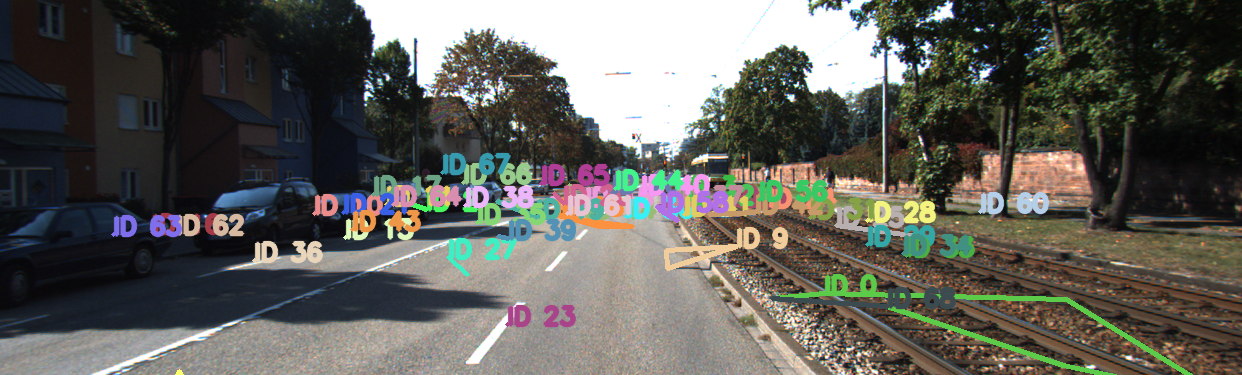
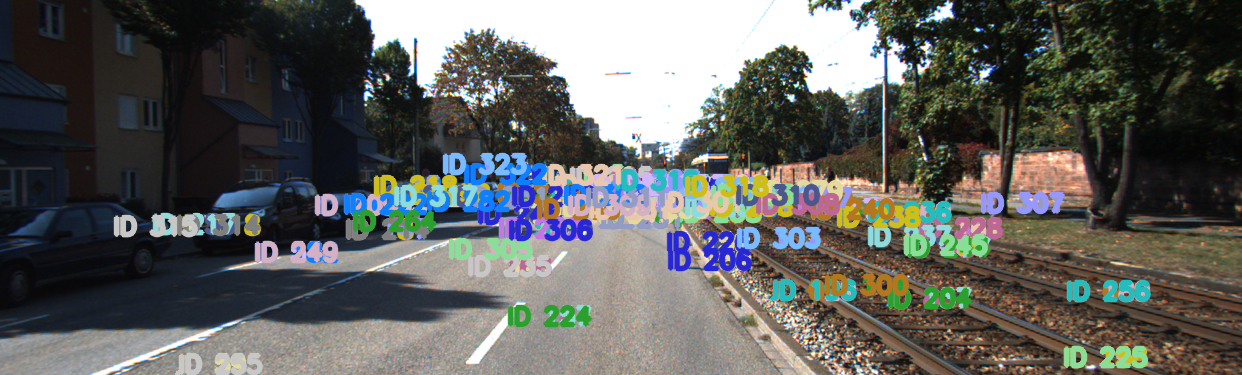
Replaced a regular tracker, with Kalman Tracker

diff --git a/animate_fusion.py b/animate_fusion.py
@@ -2,10 +2,11 @@ import os
 import cv2
 import numpy as np
 import matplotlib.pyplot as plt
+from matplotlib import colormaps
 from matplotlib.animation import FuncAnimation
 from matplotlib.widgets import Button
-from tracker import SimpleTracker
-import random
+from matplotlib.colors import to_rgb
+from kalman_tracker import MultiObjectTracker
 
 # ========== CONFIG ==========
 dataset_path = r'C:\Users\kouti\Python\(5) Multisensor Fusion & Real-Time 3D Object Tracking Perception Pipeline Useing KITTI Dataset\2011_09_26_drive_0001_sync'
@@ -132,7 +133,7 @@ class FusionAnimator:
     def __init__(self, num_frames=NUM_FRAMES):
         self.num_frames = num_frames
         self.Tr_velo_to_cam, self.R_rect, self.P2 = load_calibration()
-        self.tracker = SimpleTracker(max_distance=3.0)
+        self.tracker = MultiObjectTracker()
 
         self.image_files = sorted([f for f in os.listdir(image_folder) if f.endswith('.png')])[:num_frames]
         self.lidar_files = sorted([f for f in os.listdir(lidar_folder) if f.endswith('.bin')])[:num_frames]
@@ -161,6 +162,23 @@ class FusionAnimator:
             # Generate a random bright color (BGR) for OpenCV
             self.colors[obj_id] = tuple(np.random.choice(range(50,256), size=3).tolist())
         return self.colors[obj_id]
+    
+    def get_color(self, track_id):
+        """
+        Assign a consistent color to each track ID using a colormap.
+
+        Args:
+            track_id (int): Object ID
+
+        Returns:
+            tuple: RGB color in [0,255] format
+        """
+        if track_id not in self.colors:
+            cmap = colormaps['tab20']
+            color = cmap(track_id % 20)[:3]  # RGB in 0–1
+            self.colors[track_id] = tuple(int(255 * c) for c in color)
+        return self.colors[track_id]
+
 
     def toggle_pause(self, event):
         """Toggle pause/play state of animation."""
@@ -189,27 +207,28 @@ class FusionAnimator:
         tracked = self.tracker.update(centroids)
 
         # Draw 3D boxes and tracking info
-        for obj, track in zip(objects, tracked):
-            corners_3d = compute_3d_box(obj['dimensions'], obj['location'], obj['rotation_y'])
-            corners_2d = project_to_image(corners_3d, self.P2)
-            color = self._get_color(track['id'])
+        for track in tracked:
+            track_id = track.track_id
+            state = track.get_state()
+            if state is None:
+                continue
+            cx, cy, cz = state[:3]
+            color = self.get_color(track_id)
 
-            # Draw bounding box in RGB image (convert BGR->RGB for matplotlib display)
+            # Find associated object for bounding box rendering
+            closest_obj = min(objects, key=lambda o: np.linalg.norm(np.array(o['location']) - state[:3]))
+            corners_3d = compute_3d_box(closest_obj['dimensions'], [cx, cy, cz], closest_obj['rotation_y'])
+            corners_2d = project_to_image(corners_3d, self.P2)
             draw_3d_bbox(img_rgb, corners_2d, color=color, thickness=2)
 
-            # Project centroid to 2D for text and trajectory
-            cx, cy, cz = obj['location']
+            # Draw label and trajectory
             pt_2d = project_to_image(np.array([[cx, cy, cz]]), self.P2)[0]
             pt_2d_int = (int(pt_2d[0]), int(pt_2d[1]))
+            cv2.putText(img_rgb, f'ID {track_id}', pt_2d_int, cv2.FONT_HERSHEY_SIMPLEX, 0.5, color, 2, cv2.LINE_AA)
 
-            # Draw ID text near centroid
-            cv2.putText(img_rgb, f'ID {track["id"]}', pt_2d_int,
-                        cv2.FONT_HERSHEY_SIMPLEX, 0.5, color, 2, cv2.LINE_AA)
-
-            # Update trajectory points for this object ID
-            if track['id'] not in self.trajectories:
-                self.trajectories[track['id']] = []
-            self.trajectories[track['id']].append(pt_2d)
+            if track_id not in self.trajectories:
+                self.trajectories[track_id] = []
+            self.trajectories[track_id].append(pt_2d)
 
         # Draw all trajectories on img_rgb as lines
         for obj_id, points in self.trajectories.items():

diff --git a/kalman_tracker.py b/kalman_tracker.py
@@ -1,0 +1,89 @@
+import numpy as np
+from filterpy.kalman import KalmanFilter
+
+class KalmanTracker:
+    def __init__(self, init_position, obj_id):
+        self.track_id = obj_id  # <-- 🛠 This is critical
+        self.kf = self._init_kalman_filter(init_position)
+        self.age = 1
+        self.time_since_update = 0
+        self.history = []
+
+    def _init_kalman_filter(self, init_position):
+        kf = KalmanFilter(dim_x=6, dim_z=3)
+        kf.F = np.array([[1, 0, 0, 1, 0, 0],
+                         [0, 1, 0, 0, 1, 0],
+                         [0, 0, 1, 0, 0, 1],
+                         [0, 0, 0, 1, 0, 0],
+                         [0, 0, 0, 0, 1, 0],
+                         [0, 0, 0, 0, 0, 1]])
+        kf.H = np.array([[1, 0, 0, 0, 0, 0],
+                         [0, 1, 0, 0, 0, 0],
+                         [0, 0, 1, 0, 0, 0]])
+        kf.R *= 0.1
+        kf.P *= 10.
+        kf.Q *= 0.01
+        kf.x[:3] = np.array(init_position).reshape(3, 1)
+        return kf
+
+    def predict(self):
+        self.kf.predict()
+        self.age += 1
+        self.time_since_update += 1
+        return self.kf.x[:3].flatten()
+
+    def update(self, measurement):
+        self.kf.update(np.array(measurement).reshape(3, 1))
+        self.time_since_update = 0
+
+    def get_state(self):
+        return self.kf.x[:3].flatten()
+
+    def get_trajectory(self):
+        """
+        Get the history of tracked positions.
+
+        Returns:
+            list of np.ndarray: Past [x, y, z] positions.
+        """
+        return self.history
+
+
+class MultiObjectTracker:
+    def __init__(self):
+        self.tracks = []
+        self.next_id = 0
+
+    def update(self, detections):
+        updated_tracks = []
+
+        for det in detections:
+            det = np.array(det)
+
+            # Match with existing tracks (simple nearest neighbor)
+            best_track = None
+            best_dist = float('inf')
+            for track in self.tracks:
+                pred = track.get_state()
+                if pred is None:
+                    continue
+                dist = np.linalg.norm(pred - det)
+                if dist < best_dist and dist < 3.0:  # distance threshold
+                    best_dist = dist
+                    best_track = track
+
+            if best_track:
+                best_track.update(det)
+                updated_tracks.append(best_track)
+                self.tracks.remove(best_track)
+            else:
+                # Create new track
+                new_track = KalmanTracker(det, self.next_id)
+                updated_tracks.append(new_track)
+                self.next_id += 1
+
+        # Keep unmatched tracks (optional: you can implement track deletion for lost tracks here)
+        self.tracks = updated_tracks
+
+        # Return only tracks with valid track_id attribute
+        return [t for t in self.tracks if hasattr(t, "track_id")]
